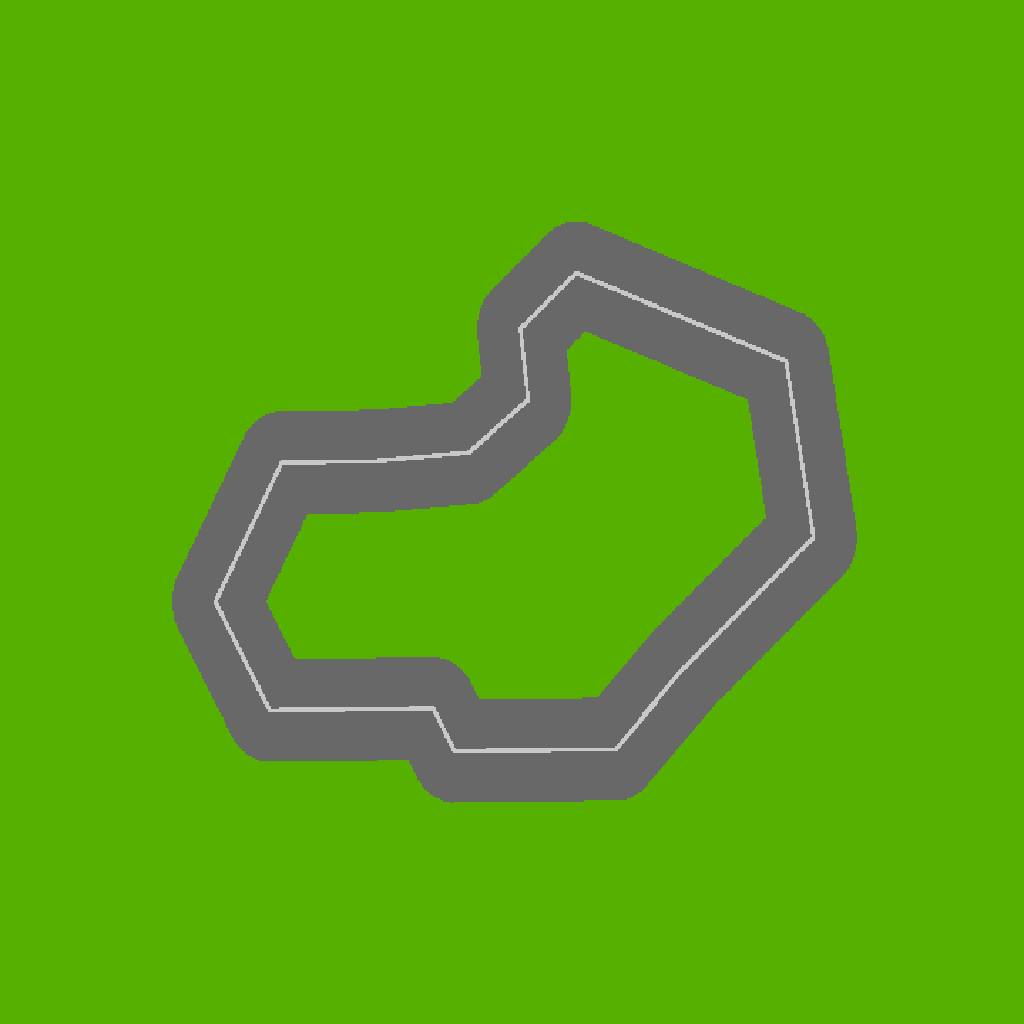
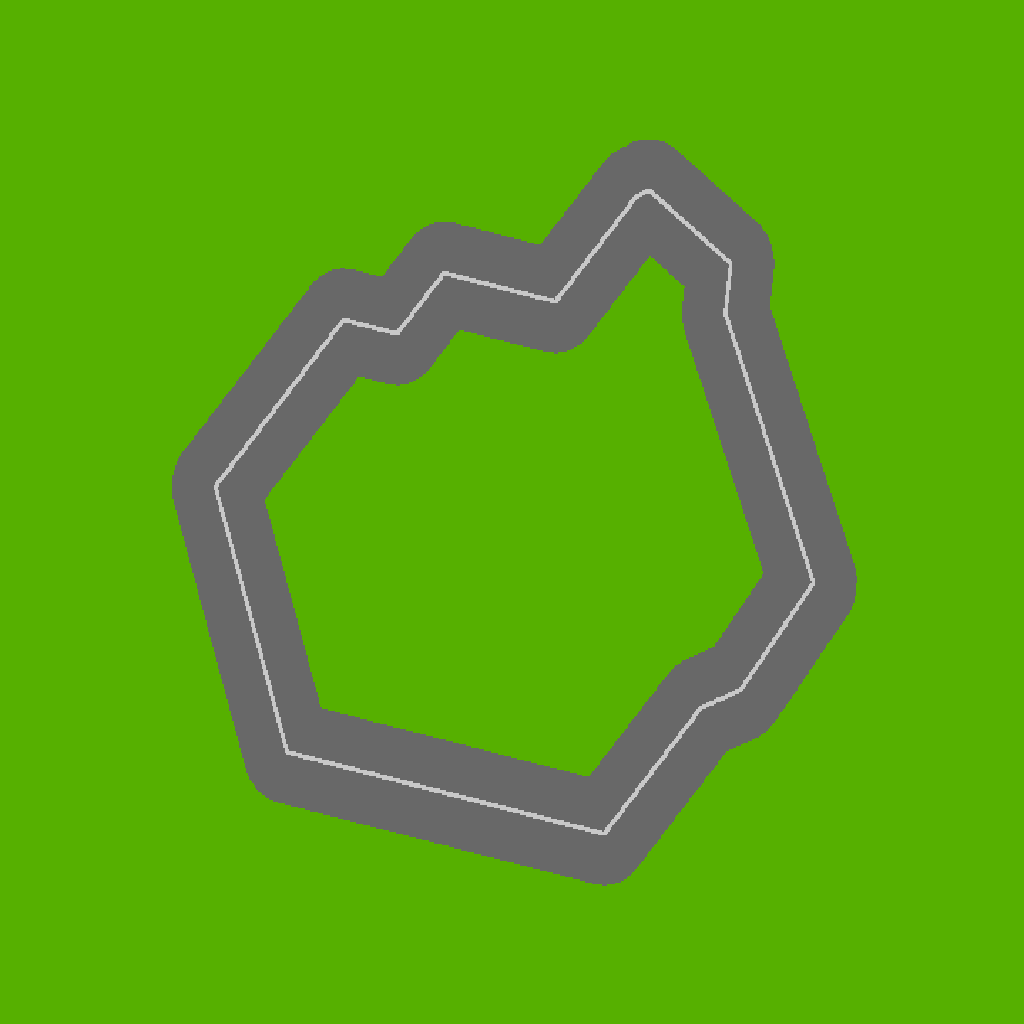
loads of stuff lol

Changed region(s): [[0.1562, 0.125, 0.8438, 0.875]]

diff --git a/MAIN.py b/MAIN.py
@@ -11,7 +11,7 @@ import threading
 
 #main loop
 def startGame():
-
+    score = 0
     main_loop = True
     util3d.initGLPG((800, 600))
     theta = 0
@@ -19,8 +19,8 @@ def startGame():
     our_player = Player.Player()
     theTerrain = Map.Terrain()
     print(theTerrain.nodes)
-    our_player.position = (theTerrain.nodes[0][0],-theTerrain.nodes[0][1])
-    our_player.theta = math.atan2(theTerrain.nodes[1][1]-theTerrain.nodes[0][1],theTerrain.nodes[1][0]-theTerrain.nodes[0][0])
+    our_player.position = (theTerrain.nodes[0][0],theTerrain.nodes[0][1])
+    our_player.theta = math.atan2(-theTerrain.nodes[1][1]+theTerrain.nodes[0][1],-theTerrain.nodes[1][0]+theTerrain.nodes[0][0])
     clock = pygame.time.Clock()
     trees = []
     EMOTION = False
@@ -54,7 +54,30 @@ def startGame():
             collData = theTerrain.pixelData[int((1+our_player.position[0])*512)][int((1+our_player.position[1])*512)]
             theTerrain.check_nodes(our_player.position,0.1)
             if collData == 0:
-                print("LOL UR SHIT")
+                our_player.position = theTerrain.this_node
+                our_player.velocity = (0,0)
+                our_player.theta = math.atan2(theTerrain.this_node[1]-theTerrain.next_node[1],theTerrain.this_node[0]-theTerrain.next_node[0])
+                our_player.speed = 0
+
+            #print(len(theTerrain.enemies))
+            for en in theTerrain.enemies:
+
+                if util3d.distance2(en.pos,our_player.position) < (en.radius+our_player.radius)**2 and not en.collected:
+                    print("Collected Enemy")
+                    #en.move(0,0.05,0)
+                    en.collected = True
+                    score -= 1
+
+            for hp in theTerrain.happy:
+
+                if util3d.distance2(hp.pos,our_player.position) < (hp.radius + our_player.radius)**2 and not hp.collected:
+                    print("Collected happy")
+                    #hp.move(0,0.05,0)
+                    hp.collected = True
+                    score += 1
+            
+
+            #print(score)
             turnMagnitude = 0
             forwards = 0
             if EMOTION:
@@ -97,6 +120,15 @@ def startGame():
                 util3d.renderSprite(t)
             playerTree.setPos(our_player.position[0],0,our_player.position[1])
             util3d.renderSprite(playerTree)
+            for spr in theTerrain.enemies:
+                if not spr.collected:
+
+                    util3d.renderSprite(spr)
+            for spr in theTerrain.happy:
+                if not spr.collected:
+
+                    util3d.renderSprite(spr)
+
             pygame.display.flip()
 
 

diff --git a/Map.py b/Map.py
@@ -1,23 +1,47 @@
 import util3d
 import gentrack
 import gentrackdata
-
+import random
+enemyNumber = 10
+happyNumber = 10
 class Terrain:
     def __init__(self):
+        self.enemies = []
+        self.happy = []
+
         gentrack.run()
         self.pixelData = gentrackdata.getPixelData()
         self.img = util3d.makeTexture("track.png")[0]
         self.nodes = gentrack.storedResults
-        print(len(self.pixelData))
+
+        for x in range(happyNumber):
+            pos = (0,0)
+            while self.pixelData[pos[0]][pos[1]] != 1:
+                pos = (random.randint(0,1023),random.randint(0,1023))
+
+            self.happy.append(util3d.Sprite3d("windows.png",pos[0]/512-1,0,pos[1]/512-1,0.01))
+
+        for x in range(enemyNumber):
+            pos = (0,0)
+            while self.pixelData[pos[0]][pos[1]] != 1:
+                pos = (random.randint(0,1023),random.randint(0,1023))
+
+            self.enemies.append(util3d.Sprite3d("apple.png",pos[0]/512-1,0,pos[1]/512-1,0.01))
+
+
+        #print(len(self.pixelData))
 
         self.next_node = self.nodes[1]
+        self.this_node = self.nodes[0]
         self.next_i = 1
 
     def check_nodes(self,pos,r):
-        if (self.next_node[1]-pos[1])**2 + (self.next_node[0]-pos[0])**2 < 0.5:
+        if (self.next_node[1]-pos[1])**2 + (self.next_node[0]-pos[0])**2 < 0.3:
             self.next_i+=1
             self.next_i %= len(self.nodes)
+            self.this_node = self.next_node
             self.next_node = self.nodes[self.next_i]
+
             print("Node Advanced to",self.next_i)
 
 

diff --git a/util3d.py b/util3d.py
@@ -7,17 +7,20 @@ import random
 import math
 textureArray = {}
 scsz = (800,600)
+
+def distance2(p1,p2):
+    return (p1[0]-p2[0])**2 + (p1[2]-p2[1])**2
 class Sprite3d:
     def __init__(self,fileName,x,y,z,r):
         self.imageData = makeTexture(fileName)
-
+        self.collected = False
         self.pos = (x,y,z)
         self.radius = r
         self.relativeHeight = r*self.imageData[2]/self.imageData[1]
     def setPos(self,x,y,z):
         self.pos = (x,y,z)
     def move(self,dx,dy,dz):
-        self.pos = (self.x+dx,self.y+dy,self.z+dz)
+        self.pos = (self.pos[0]+dx,self.pos[1]+dy,self.pos[2]+dz)
 
 def enablePerspective():
     glMatrixMode(GL_PROJECTION)

diff --git a/Player.py b/Player.py
@@ -4,9 +4,10 @@ class Player:
     def __init__(self):
         self.position = (0,0)
         self.velocity = (0,0)
-        self.acceleration = (0,0)
+        #self.acceleration = (0,0)
         self.speed = 0
         self.theta = 0
+        self.radius = 0.04
 
     def move(self,turnMagnitude,forwards):
         max_speed = 0.1

diff --git a/gentrack.py b/gentrack.py
@@ -185,7 +185,7 @@ def run():
 
         for i in range(len(pts)):
             pts[i][0] = pts[i][0] /imgwidth*1024/(800-1.5*penwidth)
-            pts[i][1] = pts[i][1] /imgheight*1024/(800-1.5*penwidth)
+            pts[i][1] = -pts[i][1] /imgheight*1024/(800-1.5*penwidth)
 
         storedResults += pts 
 
